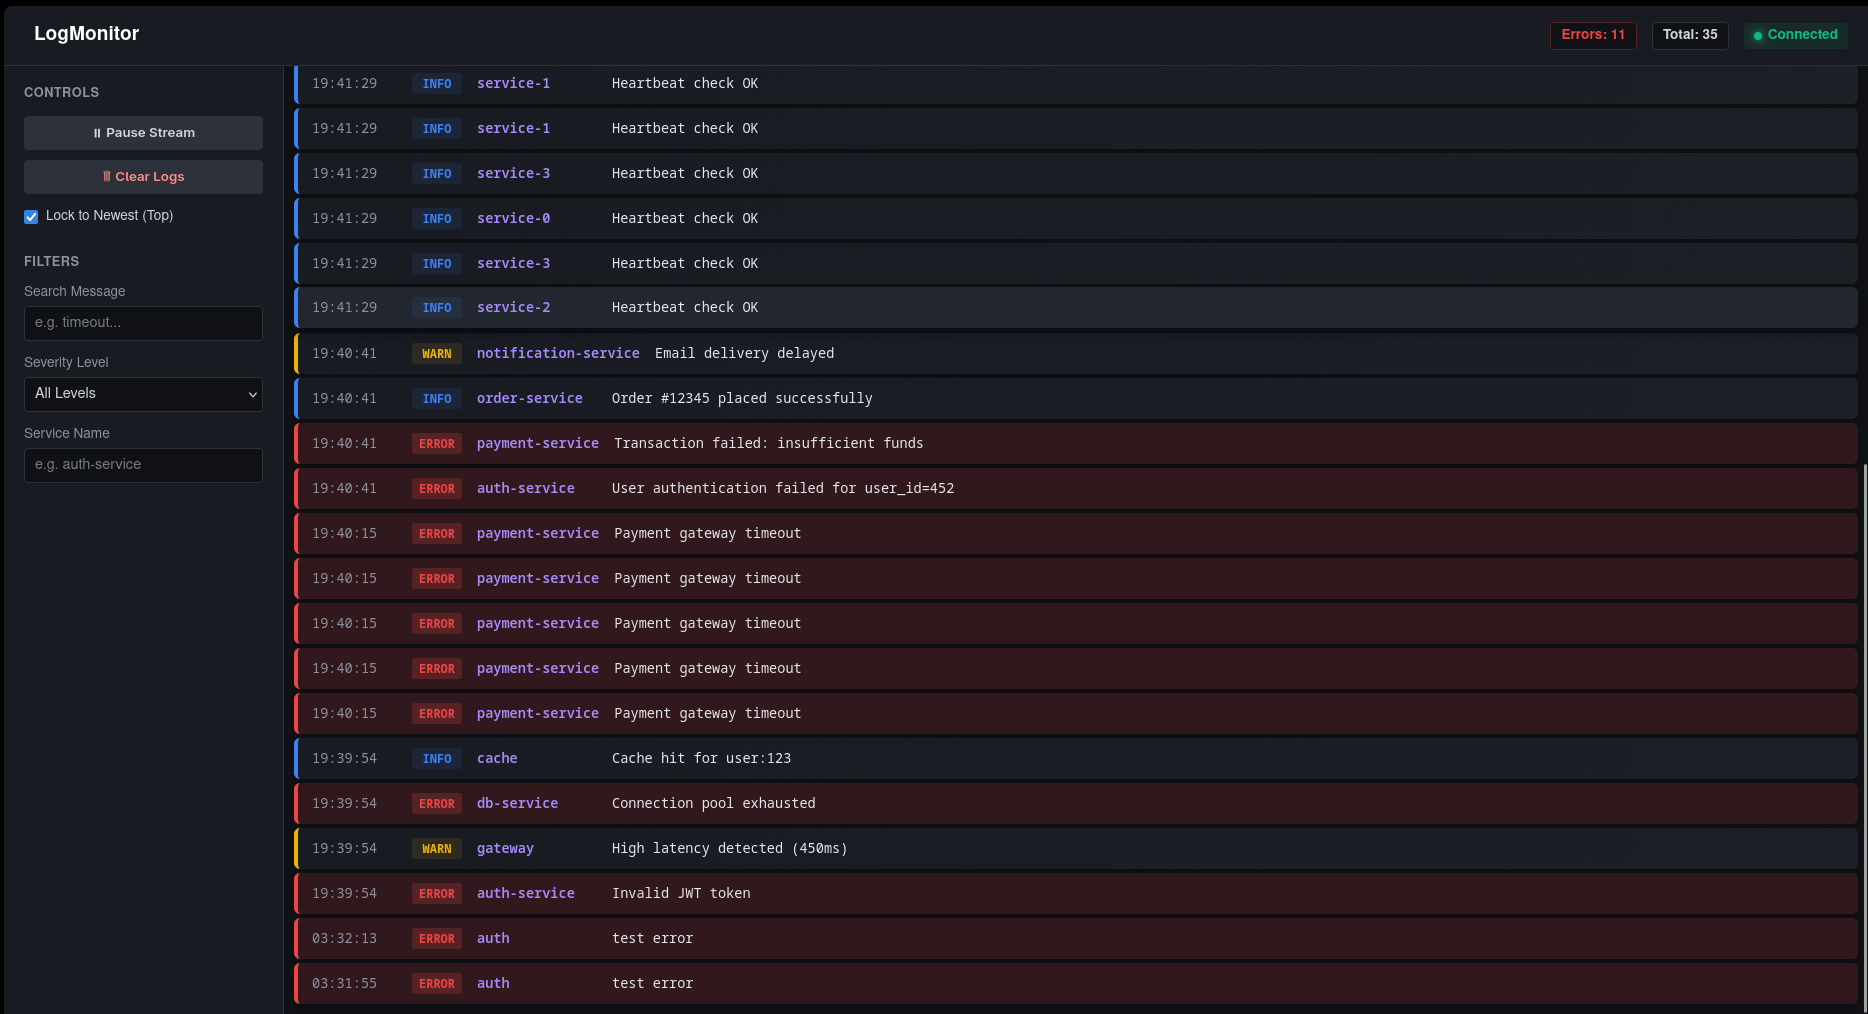
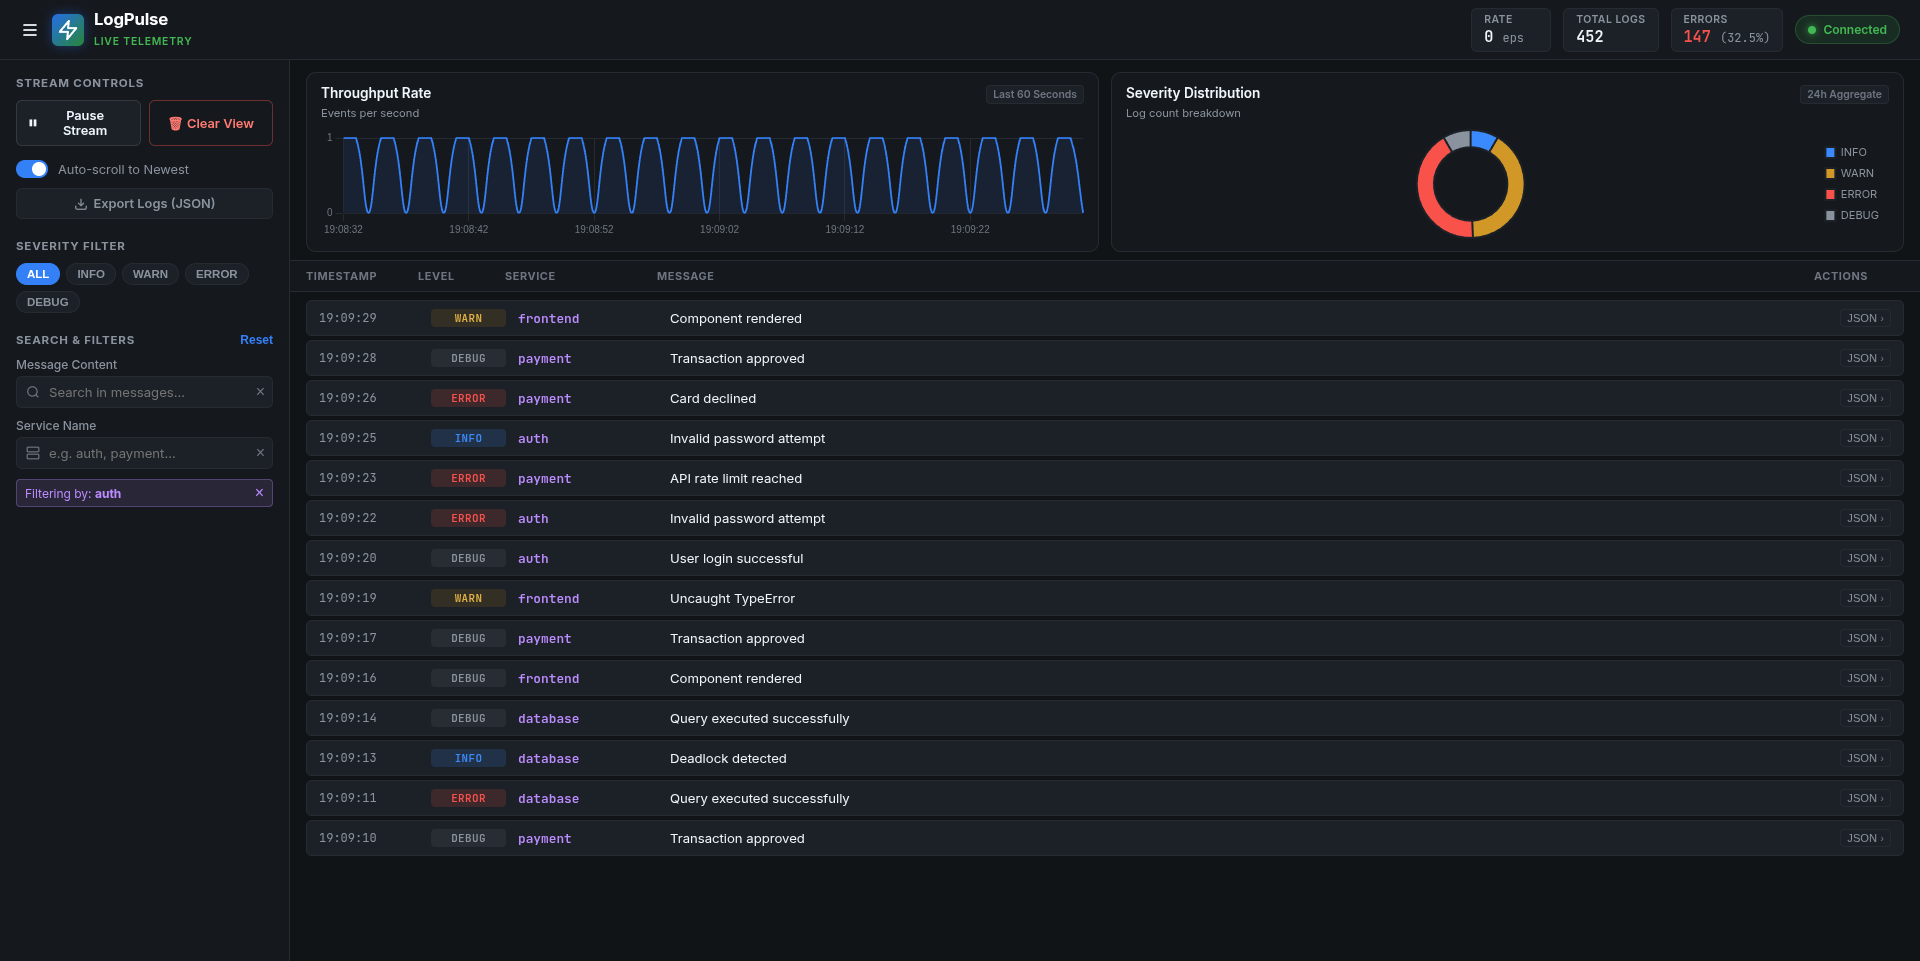
Added screenshots

diff --git a/README.md b/README.md
@@ -104,10 +104,20 @@ curl -X POST http://localhost:5000/log \
 * Distributed trace ID propagation across microservices
 
 
-## Dashboard
+## 📸 Dashboard & Screenshots
 
-![Dashboard](screenshots/dashboard.png)
-![Alerts](screenshots/webhooks.png)
+### 1. Live Telemetry & Ingestion Dashboard
+Real-time continuous throughput rate (events/sec), 24h severity breakdown, and live incoming log stream.
+![Live Telemetry Dashboard](screenshots/dashboard.png)
+
+### 2. Interactive JSON Inspector & Quick Actions
+Click any log entry to expand an accordion drawer with formatted JSON payloads, service filtering, and clipboard copy.
+![Interactive JSON Inspector](screenshots/log_details.png)
+
+### 3. Smart Alerting Notifications
+Automated Discord/Slack webhook notifications triggered by rolling error thresholds with anti-spam cooldowns.
+![Threshold Alert Notifications](screenshots/webhooks.png)
+
 
 ---
 
